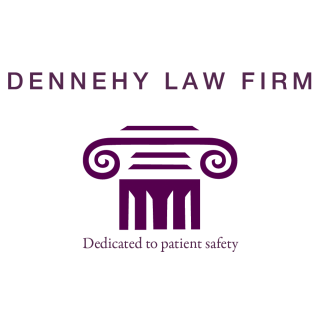
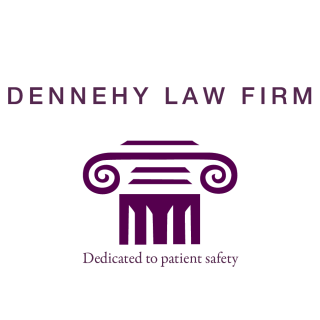
Replacement Uploads
New uploaded of logos favicon and slider images, deletion of old,
stylesheet adjustment for wider logo

diff --git a/themes/dennehy/style.css b/themes/dennehy/style.css
@@ -9,6 +9,7 @@ Template: simplekey
 Tags: one-page
 
 background color: #532750;
+link color: #50314E;
 */
 
 @import url( ../simplekey/style.css );
@@ -17,10 +18,13 @@ background color: #532750;
 
 /********** Header ******************/
 h1#site-logo, h1#site-logo a {
-width: 220px;
+width: 260px;
 }
 
 /********** Navigation **************/
+#primary-menu {
+background: #532750;
+}
 
 /********** home **************/
 .home .page-area .wrapper {
